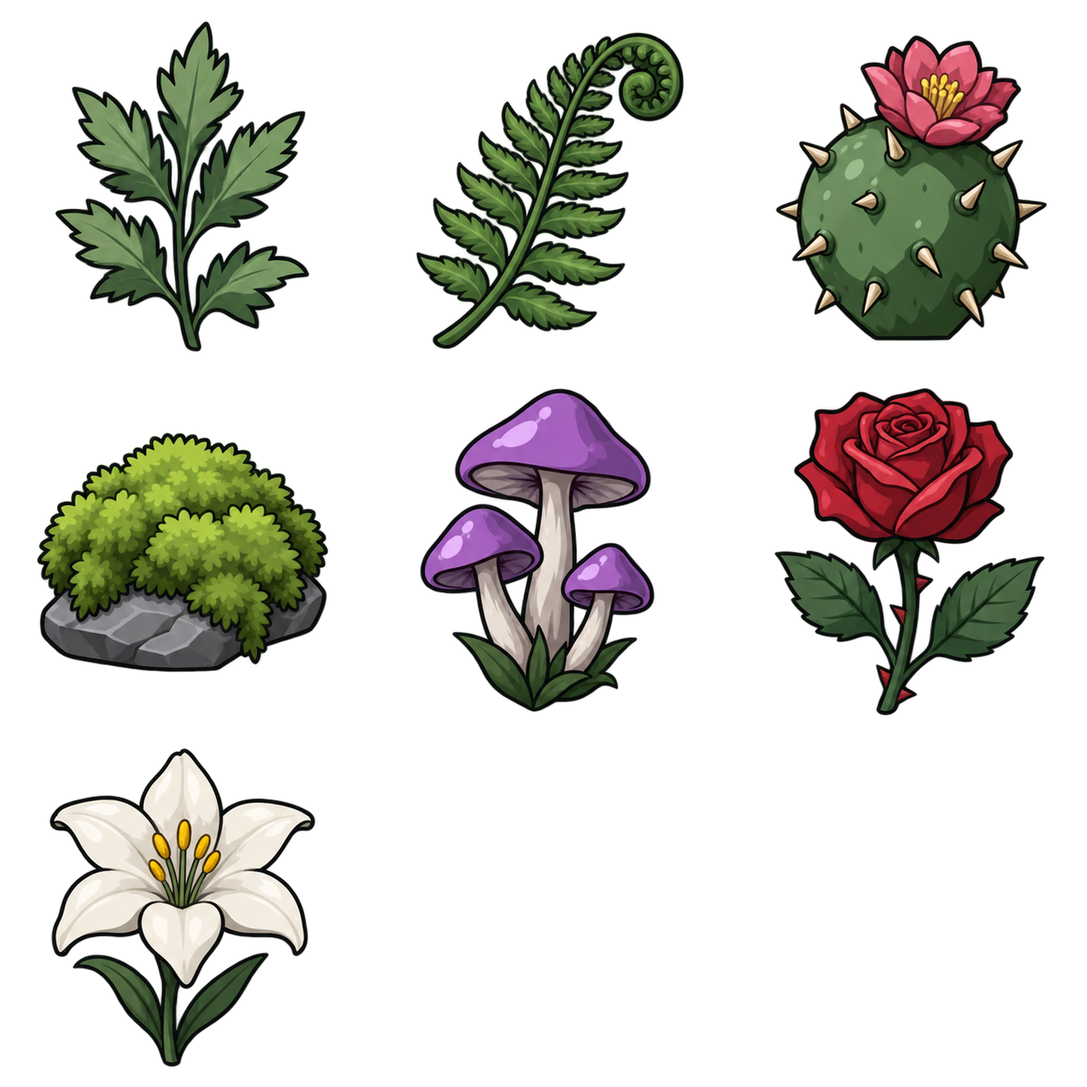
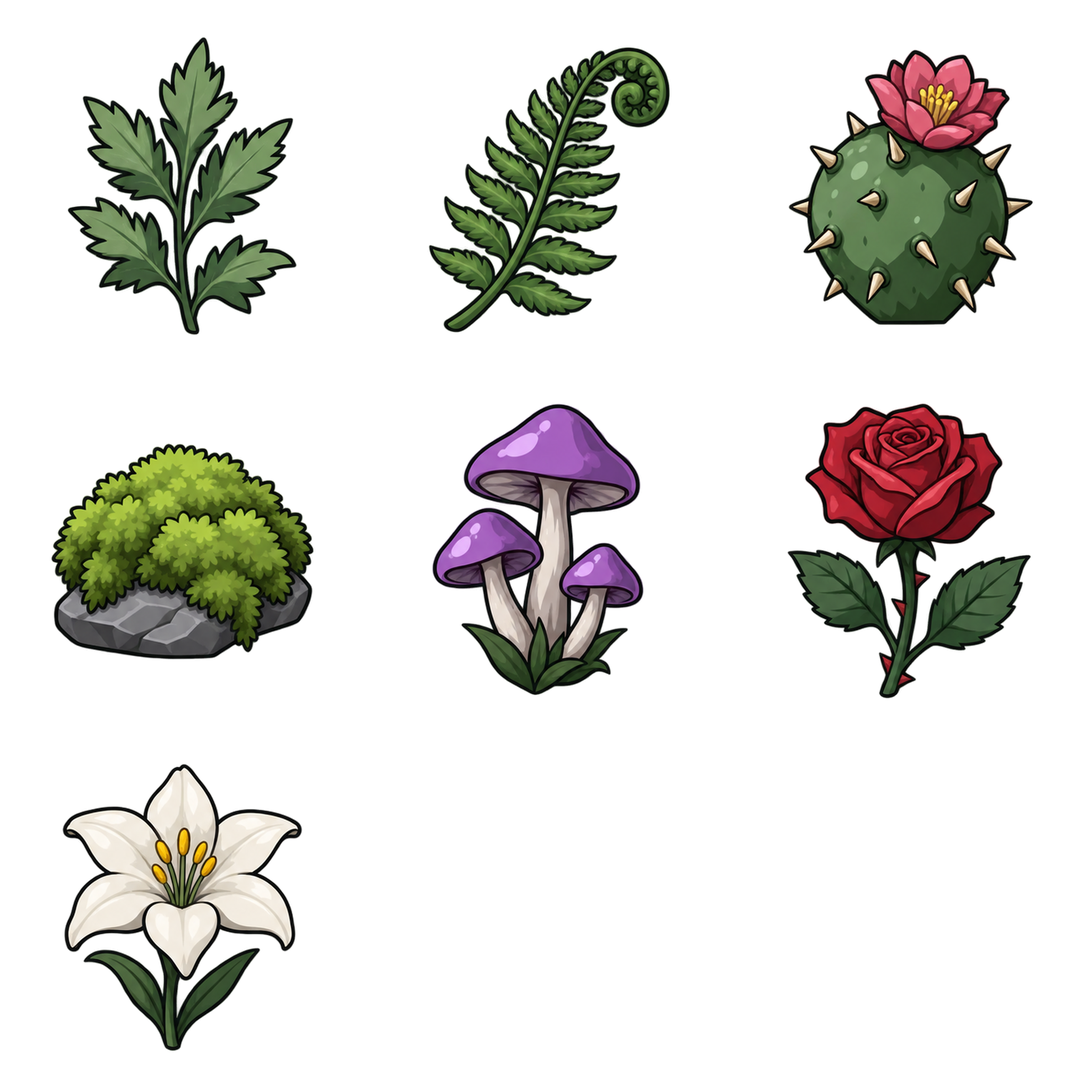
09-27 화면 · 아트 — 세부 옵션 1 줄 재배치 · 전직 판 잠김 베일 · 파티 전술 On/Off · 잠긴 행 자물쇠 · 건설 랭크 칸 세로 채움 · 약초 · 목재 아이콘
- §6 세부 옵션 1 — 피해 감소 한 줄이 고정 / % 를 함께 · 흡혈 · HP 재생을 저항 위로(combat_stat.csv:sheet_order · tip.js)
- §7 스킬 창 전직 판 = 잠김 베일 「전직 필요」
- §15 파티 전술 — 켜짐/꺼짐을 한국어도 On / Off · Off 는 빨강 · 칸 글씨 +1px · 잠긴 행 왼쪽에 자물쇠
- §13-1 건설 랭크 칸이 목록의 남는 세로를 나눠 가진다(ADR-0393)
- 재료 아이콘 — 약초 · 목재 7단계(icons/materials · icons_source · build_icons.py) · output/imagegen 시트 교체

diff --git a/src/ui/style.css b/src/ui/style.css
@@ -2524,7 +2524,7 @@ html, body { height: 100%; overflow: hidden; }
 /* ②-3·4 세부 옵션 1·2 — **목록은 칸 높이를 정하지 않는다** [2026-09-27 사용자 지시 · ADR-0384].
    flex-basis 0 — 목록이 높이 산정에서 빠져 네 칸 높이(= 가방이 남긴 세로)에 맞춰 서고, 넘치면 **칸 안에서 휠로 내린다**.
    ~~flex-basis auto — 가장 긴 칸이 네 칸의 높이를 정한다~~ 는 폐기: 줄이 늘 때마다 가방이 깎였다.
-   두 칸은 **17 · 18 줄 + 묶음 간격**이다 [ADR-0381] (SCREEN_DESIGN §6) */
+   두 칸은 **16 · 18 줄**이다 [ADR-0381 · 간격은 ADR-0389 가 걷음] (SCREEN_DESIGN §6) */
 .cs-scroll { flex: 1 1 0; min-height: 0; overflow-y: auto; padding-right: 4px; }
 /* 캐릭터 탭 세부 옵션만 줄 간격을 좁힌다 [2026-09-22 · ADR-0291] — 본문 줄 높이(1.6)로는 18줄(지금은 세부 옵션 2)이 네 칸 높이를 밀어 올려 가방이 한 줄 넘게 줄었다.
    유닛 툴팁의 같은 줄(`.tip-unit .cs-row`)은 옵션 줄이 값이 있을 때만 서서 그대로 둔다 */
@@ -3371,7 +3371,7 @@ html[lang="en"] .ng-role { line-height: 1.2; }
 .pt-tactics .rs-grid { grid-template-columns: max-content minmax(0, 1.4fr) minmax(0, 1fr) max-content; gap: 8px 16px; }
 .pt-tactics .rs-cell { grid-column: 1 / -1; display: grid; grid-template-columns: subgrid; align-items: center; padding: 11px 12px; }
 .pt-tactics .rs-top { gap: 6px; }
-.pt-tactics .rs-state { margin-left: 0; min-width: 3ch; }   /* 맨 왼쪽 (2026-09-27) — 켜짐 · 꺼짐 글자 폭이 달라도 등급 칩이 같은 자리에 선다 */
+.pt-tactics .rs-state { margin-left: 0; min-width: 3ch; }   /* 맨 왼쪽 (2026-09-27) — On · Off 글자 폭이 달라도 등급 칩이 같은 자리에 선다 */
 .pt-tactics .rs-roll { margin-top: 0; justify-self: end; }
 .pt-tactics .rs-lock { grid-column: 1 / -1; margin-top: 0; }   /* 잠긴 행은 여는 조건 한 줄 — 첫 세로줄부터 선다 (ADR-0261) */
 /* 리롤 줄 — 전체 리롤 버튼 하나 · 진척 줄과 칸 목록 사이 · 잠금 토글이 선 오른쪽 세로줄 위에 맞춘다 (§15 · R28) */
@@ -3384,7 +3384,10 @@ html[lang="en"] .ng-role { line-height: 1.2; }
 .rs-pin.on { color: var(--color-warning); }
 .rs-pin-ico { display: block; }
 .rs-cell.held { box-shadow: inset 3px 0 0 var(--color-warning); }
-.pt-tactics .rs-cond, .pt-tactics .rs-eff, .pt-tactics .rs-lock { font-size: var(--fs-xs); }
+.pt-tactics .rs-cond, .pt-tactics .rs-eff, .pt-tactics .rs-lock { font-size: calc(var(--fs-xs) + 1px); }   /* 한 단 아래 +1px (2026-09-27 사용자 지시) */
+/* 잠긴 행 — 왼쪽에 닫힌 자물쇠(`lockIcon` · 글자색 = 경고색) + 여는 조건 한 줄 */
+.pt-tactics .rs-lock { display: flex; align-items: center; gap: 6px; }
+.pt-tactics .rs-lock .rs-pin-ico { width: 1.1em; height: 1.1em; flex: none; }
 /* 「원정 중」 — 도는 원정의 편성 번호에 붙는다. 영웅 띠의 「원정 중」(`.hs-doing.exp`)과 같은 색 */
 .pt-run { margin-left: 6px; font-size: var(--fs-2xs); color: var(--color-warning); }
 /* 출정 창의 편성 고르개 (SCREEN_DESIGN §4-1 · ADR-0193) — 버튼 세로 · 초상 셋. 초상은 진형 · 적 구성 칸과 같은 한 변이라 적 구성과 마주 선다 */
@@ -3441,6 +3444,7 @@ html[lang="en"] .ng-role { line-height: 1.2; }
 .rs-grade.magic { color: var(--rarity-magic); }
 .rs-grade.rare { color: var(--rarity-rare); }
 .rs-cell.on .rs-state { color: var(--color-success); }
+.rs-cell.off .rs-state { color: var(--color-error); }   /* Off 는 빨강 (2026-09-27 사용자 지시 · §15) */
 
 .rs-cond {
     display: flex; align-items: baseline; justify-content: space-between; gap: 8px;
@@ -3603,7 +3607,7 @@ html[lang="en"] .ng-role { line-height: 1.2; }
 }
 /* 상태는 글자색과 오른쪽 끝 글자가 말한다 — 지음 흰 글씨 + 「✓」(목록의 주황은 조건만 — ADR-0330) · 다음 흰 굵은 글 + 옅은 붉은 바탕 · 그 뒤 · 준비 중 흐림 */
 .cn-rank {
-    flex: none; font-size: var(--fs-xs); min-height: calc(2 * 1.4em + 9px);   /* 글 두 줄(줄 높이 1.4) + 위아래 여백 8 + 아래 선 1 (ADR-0392) */
+    flex: 1 0 auto; font-size: var(--fs-xs); min-height: calc(2 * 1.4em + 9px);   /* 최소 글 두 줄(줄 높이 1.4) + 위아래 여백 8 + 아래 선 1 (ADR-0392) · 목록의 남는 세로는 칸들이 똑같이 나눠 가진다 (ADR-0393) */
     display: grid; grid-template-columns: max-content minmax(0, 1fr) auto; align-items: center;
     column-gap: 14px; padding: 4px 8px; line-height: 1.4;
     border-bottom: 1px solid var(--border-dark);

diff --git a/src/ui/app.js b/src/ui/app.js
@@ -3314,7 +3314,8 @@ function masteryCell(node, owner = {}) {
 function masteryBox({ tag, title, sub, nodes, onLearn, onUnlearn, locked, extraSlot = false, preview = false, sin = null, cls = null }) {
     const owner = { sin, cls };
     const color = masteryAccent(owner);
-    const box = el('div', `sk-box${locked ? ' locked' : ''}${color ? ' mastery-colored' : ''}`);
+    // `locked` — true = 흐린 판(도감의 미기획 판) · 문자열 = 격자 위 잠김 베일 + 그 한 줄(스킬 창의 전직 판)
+    const box = el('div', `sk-box${locked === true ? ' locked' : ''}${color ? ' mastery-colored' : ''}`);
     if (color) box.style.setProperty('--mastery-color', color);
     const { tiers, nodes: perTier } = M.MASTERY_GRID;
     const rows = [];
@@ -3334,6 +3335,8 @@ function masteryBox({ tag, title, sub, nodes, onLearn, onUnlearn, locked, extraS
             ${sub ? `<span class="muted sk-sub">${sub}</span>` : ''}
         </div>
         <div class="sk-grid">${rows.join('')}</div>`;
+    // 잠긴 판은 격자 위에 잠김 베일 (§7 · §13-1) — 한 줄은 부르는 쪽이 준다(전직 판 = 「전직 필요」)
+    if (typeof locked === 'string') { const g = box.querySelector('.sk-grid'); g.classList.add('lock-host'); g.appendChild(lockVeilText(locked)); }
     const nodeById = new Map(nodes.map(n => [n.id, n]));
     box.querySelectorAll('.sk-cell[data-node]').forEach(c =>
         bindTipNode(c, () => {
@@ -3429,7 +3432,7 @@ function skillTreeBody() {
     // 전직 층은 구현이 없다 — **같은 프레임의 빈 판**으로 자리만 남긴다. 생김새가 갈리면 같은 층으로 안 읽힌다
     wrap.appendChild(masteryBox({
         title: t('sk.advTree'),
-        nodes: [], locked: true,
+        nodes: [], locked: t('sk.advNeed'),
     }));
     return wrap;
 }
@@ -3461,7 +3464,7 @@ function tacticCell(slot, onLock) {
     const c = el('div', `rs-cell${slot.open ? (slot.active ? ' on' : ' off') + (slot.locked ? ' held' : '') : ' locked'}`);
     // 칸 번호는 안 적는다 [2026-09-21 사용자 지시 · ADR-0261] — 세로 목록에서는 행의 순서가 번호다. 잠긴 행은 **지을 지휘 천막 랭크** 한 줄뿐 (R137)
     if (!slot.open) {
-        c.innerHTML = `<div class="rs-lock">${needText('tactic_slots', slot.no)}</div>`;
+        c.innerHTML = `<div class="rs-lock">${lockIcon(true)}<span>${needText('tactic_slots', slot.no)}</span></div>`;
         return c;
     }
     const o = slot.option;
@@ -3703,8 +3706,10 @@ const resName = id => ({ gold: t('res.gold'), dust: t('res.dust'), stigma: t('re
 const needArgs = (target, n) => { const w = SYS.game.needOf(target, n); return w && { b: L(w.name), n: w.rank }; };
 /** 잠긴 자리의 한 줄 — 「선술집 2랭크 필요」 · 표에 없는 대상은 「준비 중」 */
 const needText = (target, n) => { const a = needArgs(target, n); return a ? t('cn.need', a) : t('cn.pending'); };
-/** 통째로 잠긴 칸의 베일 — 내용물 위에 검은 반투명 막 + 자물쇠(`lockIcon` 닫힘) + 같은 한 줄. 부모가 `.lock-host`(기준 상자)여야 한다 (§13-1) */
-const lockVeil = (target, n) => el('div', 'lock-veil', `<span class="lock-ico">${lockIcon(true)}</span><span>${needText(target, n)}</span>`);
+/** 통째로 잠긴 칸의 베일 — 내용물 위에 검은 반투명 막 + 자물쇠(`lockIcon` 닫힘) + 한 줄. 부모가 `.lock-host`(기준 상자)여야 한다 (§13-1) */
+const lockVeilText = text => el('div', 'lock-veil', `<span class="lock-ico">${lockIcon(true)}</span><span>${text}</span>`);
+/** 건물 랭크가 여는 자리 — 한 줄은 「선술집 n랭크 필요」 */
+const lockVeil = (target, n) => lockVeilText(needText(target, n));
 /** 잠긴 버튼을 누르면 — 같은 문장을 플래시로 */
 const flashNeed = (target, n) => { const a = needArgs(target, n); flash(a ? 'cn.need' : 'cn.pending', a ?? {}); };
 /** 흐린 탭을 누르면 — 그 탭에 붙은 건물 중 표 순서가 앞인 것을 말한다. 첫 랭크가 전부 준비 중이면 지을 수 없으니 「준비 중」 (§1 · ADR-0311) */

diff --git a/src/ui/tip.js b/src/ui/tip.js
@@ -353,7 +353,6 @@ const FX_ROWS = [
         parts: x => [[t('kind.elite'), x?.vsElite ?? 0], [t('exp.form.front'), x?.vsFront ?? 0], [t('exp.form.back'), x?.vsBack ?? 0]] },
     { id: 'fx_crush', fmt: 'pct', name: () => L(M.AFFIX_LABELS.crushing_blow_pct), parts: x => one(x?.crush) },
     { id: 'fx_hit', fmt: 'pct', name: () => L(M.AFFIX_LABELS.hit_bonus), parts: x => one(x?.hitBonus) },   // 궁수 T1-3 (2026-09-22 R138)
-    { id: 'fx_dr_flat', fmt: 'n', name: () => L(M.AFFIX_LABELS.dr_flat), parts: x => one(x?.drFlat) },
     { id: 'fx_dr_type', fmt: 'pct', name: () => t('st.fx.drType'), parts: x => typeParts(x?.vsDr) },
     { id: 'fx_dr_target', fmt: 'pct', name: () => t('st.fx.drTarget'),
         parts: x => [[t('kind.elite'), x?.vsEliteDr ?? 0], [t('exp.form.front'), x?.vsFrontDr ?? 0], [t('exp.form.back'), x?.vsBackDr ?? 0]] },
@@ -367,7 +366,7 @@ const fxParts = (s, c) => s.parts(c?.option_fx ?? null, c);
 
 /**
  * 세부 옵션의 자리 — `[세부 옵션 1, 세부 옵션 2]` · 칸마다 **묶음**의 배열 · 묶음마다 줄 id [2026-09-27 사용자 지시 · SCREEN_DESIGN §6 · ADR-0381].
- * 1 = **늘 먹는 것**(모든 타격 · 모든 피격) — 대표 · 공격 · 방어 · 저항 · 회복 / 2 = **조건부**(대상 · 상황 · 발동이 붙는 것) — 원소 · 대상 · 확률 · 맞을 때 · 효과 증폭 · 파밍.
+ * 1 = **늘 먹는 것**(모든 타격 · 모든 피격) — 대표 · 공격 · 방어 · 회복 · 저항 / 2 = **조건부**(대상 · 상황 · 발동이 붙는 것) — 원소 · 대상 · 확률 · 맞을 때 · 효과 증폭 · 파밍.
  * 묶음은 **순서로만** 모은다 — 제목도 간격도 없다(간격은 2026-09-27 사용자 지시로 걷었다 · ADR-0389). 2 의 「대상」 묶음은 주는 것 ↔ 막는 것을 한 쌍씩 붙인다.
  * combat_stat 행끼리의 순서는 `sheet_order` 와 같아야 한다(dev/test.js 가 대조한다) · `fx_` 는 `FX_ROWS`.
  * 캐릭터 탭의 두 패널과 유닛 툴팁의 두 열이 **같은 자리에서** 끊는다 (ADR-0115)
@@ -376,9 +375,9 @@ const DETAIL_LAYOUT = [
     [
         ['atk_physical', 'atk_magic', 'action_period', 'hp_max'],
         ['crit_rate', 'crit_damage', 'def_ignore', 'cooldown_reduction'],
-        ['defense', 'damage_reduction', 'fx_dr_flat'],
-        ['res_fire', 'res_cold', 'res_lightning', 'res_poison'],
+        ['defense', 'damage_reduction'],   // 피해 감소 줄이 고정 피해 감소를 함께 든다 — `고정 / %` (2026-09-27 사용자 지시)
         ['life_steal', 'hp_regen'],
+        ['res_fire', 'res_cold', 'res_lightning', 'res_poison'],   // 저항 넷이 맨 아래 [2026-09-27 사용자 지시]
     ],
     [
         ['fx_ele', 'fx_res_red'],
@@ -420,9 +419,11 @@ export function sheetRowsHtml(rows, c) {
         // 물리 방어는 정수로 반올림해 찍는다 (2026-09-15 사용자 지시 · SCREEN_DESIGN §6) — 감쇠율은 위에서 반올림 전 값으로 냈다.
         //   fmt 로 가르지 않는다: 같은 `n` 인 HP 재생(0.05)까지 0 이 된다
         const shown = s.id === 'defense' && has ? Math.round(v) : v;
+        // 피해 감소 = **고정 / %** 한 줄 [2026-09-27 사용자 지시 · SCREEN_DESIGN §6] — 고정 피해 감소(`option_fx.drFlat` · 모든 감소 뒤에 뺀다)는 제 줄을 잃었다
+        const text = s.id === 'damage_reduction' && has ? `${c.option_fx?.drFlat ?? 0} / ${fmtCombat(s, v)}` : fmtCombat(s, shown);
         return `<div class="cs-row${has ? '' : ' off'}${s.lead ? ' lead' : ''}">
             <span class="cs-n">${L(s)}</span>
-            <span class="cs-v">${fmtCombat(s, shown)}${extra}</span></div>`;
+            <span class="cs-v">${text}${extra}</span></div>`;
     }).join('');
 }
 

diff --git a/src/dev/test.js b/src/dev/test.js
@@ -646,7 +646,7 @@ check('combat_stat.csv: 24행 · 폐지 축 없음 · 저항은 pct · 유틸은
     if (ids.length !== 24) fail(`${ids.length}`);
     return true;
 });
-check('combat_stat.csv: sheet_order 1~24 유일 · 세부 옵션 자리(tip.js:DETAIL_LAYOUT)와 같은 순서 · 1 = 늘 먹는 것 17 / 2 = 조건부 18 (SCREEN_DESIGN §6 · ADR-0381)', () => {
+check('combat_stat.csv: sheet_order 1~24 유일 · 세부 옵션 자리(tip.js:DETAIL_LAYOUT)와 같은 순서 · 1 = 늘 먹는 것 16 / 2 = 조건부 18 (SCREEN_DESIGN §6 · ADR-0381)', () => {
     const orders = D.combatStats.map(s => s.sheetOrder);
     if (orders.some(v => typeof v !== 'number')) fail('sheet_order 가 비어 있는 행이 있다');
     if (new Set(orders).size !== 24) fail(`중복 ${orders.length - new Set(orders).size}개`);
@@ -664,7 +664,8 @@ check('combat_stat.csv: sheet_order 1~24 유일 · 세부 옵션 자리(tip.js:D
     if (missing.join() !== 'res_reduction' || !flat.includes('fx_res_red')) fail(`줄로 안 서는 impl=1: ${missing.join()}`);
     if (pages[0].slice(0, 4).join() !== 'atk_physical,atk_magic,action_period,hp_max') fail(`머리 4: ${pages[0].slice(0, 4).join()}`);
     const n = pages.map(p => p.length).join(' / ');
-    if (n !== '17 / 18') fail(`세부 옵션 ${n}`);
+    // 16 — 고정 피해 감소가 피해 감소 줄(`고정 / %`)로 들어갔다 (2026-09-27 사용자 지시)
+    if (n !== '16 / 18') fail(`세부 옵션 ${n}`);
     return `세부 옵션 ${n} (전투 능력치 ${statIds.length} + 옵션 줄 ${flat.length - statIds.length})`;
 });
 check('hero_attribute.csv: 감각 → 운 (2026-08-26 재정의) · 자리 유지 · 직업 메인 스탯(class.csv:key_attr · 2026-09-18 · 사제 매력 2026-09-27)', () => {
@@ -5616,7 +5617,7 @@ check('tip: 영웅 첫 장은 착용 장비 · Alt 는 장비를 둔 채 세부 
     for (const s of s2) if (!(s.fx ? true : combat[s.id])) fail(`Alt 세부 옵션 2 에 값이 0 인 ${s.id} 가 섰다`);
     if (held.querySelector('.tip-unit-col .cs-row.gap')) fail('세부 옵션에 묶음 간격이 남았다 (ADR-0389)');
     const full = `${p1.length} / ${p2.length}`;
-    if (full !== '17 / 18') fail(`캐릭터 탭 세부 옵션 ${full} — 17 / 18 이어야 한다 (ADR-0381)`);
+    if (full !== '16 / 18') fail(`캐릭터 탭 세부 옵션 ${full} — 16 / 18 이어야 한다 (ADR-0381 · 고정 피해 감소는 피해 감소 줄)`);
     return `장비 8칸(착용 ${worn}) · Alt 세부 ${detailRows}행 · 캐릭터 탭 ${full}`;
 });
 check('tip: Alt 영웅 툴팁은 카드 밖에서도 남고 · 찬 장비 hover는 옵션 카드를 열고 · 키를 떼면 모두 닫힌다 (ADR-0182)', () => {

diff --git a/src/ui/i18n.js b/src/ui/i18n.js
@@ -995,8 +995,9 @@ const STRINGS = {
     'rs.total': { ko: '합산 레벨', en: 'Total Level' },
     'rs.open': { ko: '열린 칸', en: 'Slots Open' },
     'rs.allOpen': { ko: '전부 열렸다', en: 'All slots open' },
-    'rs.on': { ko: '켜짐', en: 'On' },
-    'rs.off': { ko: '꺼짐', en: 'Off' },
+    // 한국어도 On / Off 그대로 [2026-09-27 사용자 지시 「한글이어도 무조건 On Off」 · SCREEN_DESIGN §15]
+    'rs.on': { ko: 'On', en: 'On' },
+    'rs.off': { ko: 'Off', en: 'Off' },
     // 전체 리롤 + 잠금 [2026-09-22 · R28 · tactic_card_design §5-6] — 버튼 하나가 안 잠근 칸을 전부 굴리고, 비용은 잠근 칸 수가 정한다
     'rs.reroll': { ko: '전체 리롤 {g}G', en: 'Reroll All {g}G' },
     'rs.reroll.done': { ko: '{n}칸을 다시 굴렸다', en: 'Rerolled {n} slot(s)' },
@@ -1268,6 +1269,7 @@ const STRINGS = {
             + 'The reactive bottom row is still being designed.',
     },
     'sk.advTree': { ko: '전직 트리', en: 'Advancement Tree' },
+    'sk.advNeed': { ko: '전직 필요', en: 'Advancement required' },   // 전직 판의 잠김 베일 (§7 · §13-1)
     'sk.advTree.missing': {
         ko: '<b>액티브를 주는 층은 전직 하나</b>다 — 두 마스터리는 전부 패시브다. 전직 3갈래 중 하나를 고르면 그 전직이 액티브 3을 주고, <b>그중 1개를 찍은 것만</b> 칸에 올라 트리의 뿌리가 된다.<br>'
             + '⚠ 미구현 — 뿌리 45개가 필요해졌고 <b>트리 형태(깊은 트리 vs 얕은 티어)</b>가 미정이라 총량을 못 정한다. 본 프로젝트 최대의 콘텐츠 부채다.',

diff --git a/src/ui/mock.js b/src/ui/mock.js
@@ -759,10 +759,12 @@ export const buildingImg = id => (BUILDING_IMAGES.includes(id) ? `${BUILDING_IMG
 
 /**
  * 재료 아이콘 — 자원 단계 상자의 산출물 그림 (SCREEN_DESIGN §8 · ADR-0377) · 파일명 = 재료 id (`mine_node.csv:ore_id` …).
- * **목록에 있는 재료만 그림을 읽는다** — 없는 재료는 칸째 빠진다. 약초 · 목재 그림이 오면 폴더와 줄을 더한다
+ * **목록에 있는 재료만 그림을 읽는다** — 없는 재료는 칸째 빠진다.
  */
 export const MATERIAL_ICONS = {
     ore: { dir: './assets/art/icons/materials/ores/', ids: ['ore_t1', 'ore_t2', 'ore_t3', 'ore_t4', 'ore_t5', 'ore_t6', 'ore_t7'] },
+    timber: { dir: './assets/art/icons/materials/timbers/', ids: ['timber_t1', 'timber_t2', 'timber_t3', 'timber_t4', 'timber_t5', 'timber_t6', 'timber_t7'] },
+    herb: { dir: './assets/art/icons/materials/herbs/', ids: ['herb_t1', 'herb_t2', 'herb_t3', 'herb_t4', 'herb_t5', 'herb_t6', 'herb_t7'] },
 };
 export const materialIcon = id => {
     const g = Object.values(MATERIAL_ICONS).find(x => x.ids.includes(id));

diff --git a/scripts/build_icons.py b/scripts/build_icons.py
@@ -37,6 +37,8 @@ GAME_DIRS = [
     "mastery/sin",
     "mastery/class",
     "materials/ores",
+    "materials/timbers",
+    "materials/herbs",
 ]
 
 

diff --git a/docs/client/SCREEN_DESIGN.md b/docs/client/SCREEN_DESIGN.md
@@ -618,7 +618,7 @@
 | 장비 | **페이퍼돌** — 신체 위치대로 착용 위치 8 (부위 7, 반지 ×2). 3열 × 3행: 투구·목걸이 / 무기·갑옷·장갑 / 반지·신발·반지 (2026-09-01 재배치 — 보조 슬롯 폐지로 4행 → 3행). 희귀도 색 테두리 · **잠기는 칸은 없다**(전 무기가 양손이라 배타가 사라졌다) · **제목 옆 집계는 없다** ([ADR-0041](adr/0041-집계-줄-폐기-네-칸의-제목은-이름뿐이다.md)) · **빈 칸은 부위 실루엣**을 깔고 이모지를 안 깐다 ([ADR-0025](adr/0025-미장착-칸-는-부위-실루엣.md)) · **찬 칸의 글자는 모서리 배지 둘** — 가방 칸과 같다: 오른쪽 위 강화 `+n`(강화했을 때만 · [ADR-0169](adr/0169-페이퍼돌-착용-칸도-강화-단계를-든다.md)) · 오른쪽 아래 `Lv.n`([ADR-0168](adr/0168-아이템-칸-오른쪽-아래에-아이템-레벨이-선다.md)) · 부위 이름은 빈 칸의 `title` 이 든다 ([ADR-0122](adr/0122-페이퍼돌-칸에는-글자가-없다.md)) · **착용 칸은 아이템 그림**(§2 · 방어구 · 장신구는 개체 `baseId` 의 그림 — 부위 일곱이 다 찼다) | 착용 칸 클릭 = **해제** |
 | | 접사 죄종 **태그** 집계 — 세트포인트 아님(폐기). 전술카드 조건이 이 숫자를 읽으므로 **카운터는 필수**다 (tactic_card_design.md §2-1) · 소제목 「접사 죄종」은 옆 칸 소제목 「액티브 스킬」과 **같은 높이**에 선다 | |
 | 기본 옵션 | **제목 줄 오른쪽 끝에 죄종 칩** — 글자 · 테두리가 **그 죄종 색**(후보 카드 칩과 같은 문법) · **맨 위에 레벨 · 경험치** — 한 줄(왼쪽 `Lv.n` · 오른쪽 `경험치 현재 / 필요`) + 그 아래 **칸 폭 전부를 쓰는 얇은 막대**(약어 배지 없음 · 능력치 막대보다 얇다 — 시작 x 와 두께가 달라 여덟째 능력치로 안 읽힌다) · 능력치 막대와는 **선 없이 간격**으로만 가른다 · **만렙(`[balance.csv:hero_level_cap]`)이면 숫자 대신 `MAX` · 막대는 가득** — 줄이 안 사라져 영웅을 바꿔도 아래가 안 흔들린다 ([ADR-0129](adr/0129-레벨-경험치는-기본-옵션-칸-맨-위-능력치-막대-위에-선다.md)) · 그 아래 기본 능력치 7 막대 — **일곱 줄의 막대가 같은 x 에서 시작한다** · 막대 폭이 범위(`[balance.csv:hero_attr_min]` ~ `[balance.csv:hero_attr_max]`) 안의 자리를 든다 — **범위 숫자 줄은 없다** · 그 아래 **액티브 스킬** — 막대와의 사이 선은 **하나**(소제목 밑줄) — 액티브 3 을 **정사각 카드**로. **찬 칸은 그림 하나뿐**이다 ([ADR-0040](adr/0040-스킬-칸-는-그림-하나.md)) (이름 · 초 · 효과 문장은 **툴팁이 든다**) · **칸 아래에 출처 글자** `영웅` · `무기` · `전직` — 빈 칸 아래에도 찍고, 이 칸의 툴팁은 출처 칩을 안 단다 ([ADR-0121](adr/0121-스킬-출처는-글자로-한-번만-선다-액티브-칸-아래에-적고-툴팁-칩은-관전만-단다.md)) · **빈 칸은 파선 네모 하나**(사유는 `title` 이 든다 — 칸이 아이콘 크기라 글자가 안 들어간다). 공격 속도(초)는 **세부 옵션 1** 머리의 `action_period` 행이 든다 | **[마스터리 열기]** → 창이 뜬다 (§7) · **[해고]** → 창이 뜬다 (아래) |
-| 세부 옵션 1 · 2 | **1 = 늘 먹는 것 17줄 · 2 = 조건부 18줄 · 넘치면 칸 안에서 휠**([ADR-0384](adr/0384-캐릭터-탭-가방-높이는-원정-화면과-같고-줄지-않는다-넘치는-세부-옵션은-칸-안에서-휠로-내린다.md) — 칸 높이를 정하지 않는다) [[ADR-0381](adr/0381-세부-옵션-1-은-늘-먹는-것-2-는-조건부이고-묶음-사이는-간격으로-가른다.md)] — 기준 한 줄: **모든 타격 · 모든 피격에 늘 먹으면 1, 대상 · 상황 · 발동이 붙으면 2**. 자리(칸 → 묶음 → 줄)는 `tip.js:DETAIL_LAYOUT` 이 정한다 — 줄은 전투 능력치 `impl=1` 행(`game.heroCombat` · 행끼리의 순서 = `[combat_stat.csv:sheet_order]`)과 **옵션이 여는 줄**(`option_fx` 등 — combat_stat 행이 아니다 · 정의는 `tip.js:FX_ROWS` · [ADR-0291](adr/0291-세부-옵션은-옵션이-여는-축까지-36줄이다-18-18-로-물리-방어-앞에서-끊는다.md)). **묶음은 순서로만 모은다 — 제목도 간격도 없이 줄을 잇는다** [[ADR-0389](adr/0389-세부-옵션-줄은-간격-없이-잇는다-묶음은-순서로만-모은다.md)]. 1 = **대표**(물리 데미지 · 마법 데미지 · 공격 속도 · 최대 HP — 값을 굵게 · 아래 간격 없음 · 공격 속도는 **초 / 1회** · [ADR-0358](adr/0358-인게임의-속도-이름은-공격-속도-하나다-행동-주기를-화면에서-걷는다.md)) / **공격**(치명타 확률 · 치명타 피해 · 방어 무시 · 쿨타임 감소) / **방어**(물리 방어 · 피해 감소 · 고정 피해 감소) / **저항**(불 · 냉기 · 전기 · 독) / **회복**(흡혈 · HP 재생) · 2 = **원소**(원소 피해 · 저항 감소) / **대상**(타입 추가 데미지 · 타입별 받는 피해 감소 · 정예 · 열 추가 데미지 · 정예 · 열별 받는 피해 감소 — 주는 것 ↔ 막는 것을 한 쌍씩) / **확률 · 특수**(강타 · 명중률 · 최대 저항 증가) / **맞을 때**(타격 회복 · 반격 확률 · 반사 피해) / **효과 증폭**(체력 회복 · 버프 지속시간) / **파밍**(드랍률 · 매직아이템 획득 · 골드 획득 · 경험치 획득). **데미지 두 줄은 범위 `최소~최대`** 로 찍는다(양끝이 같으면 한 수 · [ADR-0108](adr/0108-무기-피해와-스킬-피해-회복량은-최소-최대-범위로-찍는다.md)). **묶은 줄은 값이 있는 것만 이름을 붙여** 찍고(`일반 10% · 데몬 5%`) 전부 0이면 `—` 다 — 원소 피해 = 불 · 냉기 · 전기 · 독 · 저항 감소 = 전체(`res_reduction`) + 원소별(`res_reduction_el`). **타입 추가 데미지 줄은 `vs_type_damage`(`impl=0`)의 이름을 쓰고** 값은 `option_fx` 가 든다. **세우지 않는 축** — 타격 시 방어 · 저항 약화 · 타격 시 대상 데미지 감소(전투는 읽는다 — 아이템 툴팁의 옵션 줄로만 보인다) · 상태이상 시간 감소 넷(전투가 안 읽는다 — 아이템 툴팁이 「(미적용)」으로 든다 · [ADR-0213](adr/0213-목걸이-발동-스킬은-고정-줄로-서고-전투에-안-걸리는-줄은-미적용을-단다.md)) · 상태이상 대상 피해(`impl=0` · 출처 없음) · 도감 피해량(전 영웅 공통 — 도감의 값). **칸마다의 집계도 약어도 안 붙인다** ([ADR-0041](adr/0041-집계-줄-폐기-네-칸의-제목은-이름뿐이다.md)) — 약어 배지는 **기본 옵션의 막대 줄에만** 선다. 저항 4행은 **값 + 그 원소의 현재 상한**(기본 상한 + 최대 저항 증가 + **그 원소의 최대 저항 증가**(투구 시기 칸 — 시트 행이 아니라 상한에만 먹는다 · 2026-09-18) — `formula.resCap`) · 물리 방어 행은 **값(정수로 반올림) + 감쇠율 %**(감쇠율은 반올림 전 값으로 낸다) | |
+| 세부 옵션 1 · 2 | **1 = 늘 먹는 것 16줄 · 2 = 조건부 18줄 · 넘치면 칸 안에서 휠**([ADR-0384](adr/0384-캐릭터-탭-가방-높이는-원정-화면과-같고-줄지-않는다-넘치는-세부-옵션은-칸-안에서-휠로-내린다.md) — 칸 높이를 정하지 않는다) [[ADR-0381](adr/0381-세부-옵션-1-은-늘-먹는-것-2-는-조건부이고-묶음-사이는-간격으로-가른다.md)] — 기준 한 줄: **모든 타격 · 모든 피격에 늘 먹으면 1, 대상 · 상황 · 발동이 붙으면 2**. 자리(칸 → 묶음 → 줄)는 `tip.js:DETAIL_LAYOUT` 이 정한다 — 줄은 전투 능력치 `impl=1` 행(`game.heroCombat` · 행끼리의 순서 = `[combat_stat.csv:sheet_order]`)과 **옵션이 여는 줄**(`option_fx` 등 — combat_stat 행이 아니다 · 정의는 `tip.js:FX_ROWS` · [ADR-0291](adr/0291-세부-옵션은-옵션이-여는-축까지-36줄이다-18-18-로-물리-방어-앞에서-끊는다.md)). **묶음은 순서로만 모은다 — 제목도 간격도 없이 줄을 잇는다** [[ADR-0389](adr/0389-세부-옵션-줄은-간격-없이-잇는다-묶음은-순서로만-모은다.md)]. 1 = **대표**(물리 데미지 · 마법 데미지 · 공격 속도 · 최대 HP — 값을 굵게 · 아래 간격 없음 · 공격 속도는 **초 / 1회** · [ADR-0358](adr/0358-인게임의-속도-이름은-공격-속도-하나다-행동-주기를-화면에서-걷는다.md)) / **공격**(치명타 확률 · 치명타 피해 · 방어 무시 · 쿨타임 감소) / **방어**(물리 방어 · 피해 감소 — **`고정 / %` 한 줄**: 고정 피해 감소가 제 줄 없이 여기 앞에 선다 · 2026-09-27 사용자 지시) / **회복**(흡혈 · HP 재생) / **저항**(불 · 냉기 · 전기 · 독 — 칸 맨 아래 · 2026-09-27 사용자 지시) · 2 = **원소**(원소 피해 · 저항 감소) / **대상**(타입 추가 데미지 · 타입별 받는 피해 감소 · 정예 · 열 추가 데미지 · 정예 · 열별 받는 피해 감소 — 주는 것 ↔ 막는 것을 한 쌍씩) / **확률 · 특수**(강타 · 명중률 · 최대 저항 증가) / **맞을 때**(타격 회복 · 반격 확률 · 반사 피해) / **효과 증폭**(체력 회복 · 버프 지속시간) / **파밍**(드랍률 · 매직아이템 획득 · 골드 획득 · 경험치 획득). **데미지 두 줄은 범위 `최소~최대`** 로 찍는다(양끝이 같으면 한 수 · [ADR-0108](adr/0108-무기-피해와-스킬-피해-회복량은-최소-최대-범위로-찍는다.md)). **묶은 줄은 값이 있는 것만 이름을 붙여** 찍고(`일반 10% · 데몬 5%`) 전부 0이면 `—` 다 — 원소 피해 = 불 · 냉기 · 전기 · 독 · 저항 감소 = 전체(`res_reduction`) + 원소별(`res_reduction_el`). **타입 추가 데미지 줄은 `vs_type_damage`(`impl=0`)의 이름을 쓰고** 값은 `option_fx` 가 든다. **세우지 않는 축** — 타격 시 방어 · 저항 약화 · 타격 시 대상 데미지 감소(전투는 읽는다 — 아이템 툴팁의 옵션 줄로만 보인다) · 상태이상 시간 감소 넷(전투가 안 읽는다 — 아이템 툴팁이 「(미적용)」으로 든다 · [ADR-0213](adr/0213-목걸이-발동-스킬은-고정-줄로-서고-전투에-안-걸리는-줄은-미적용을-단다.md)) · 상태이상 대상 피해(`impl=0` · 출처 없음) · 도감 피해량(전 영웅 공통 — 도감의 값). **칸마다의 집계도 약어도 안 붙인다** ([ADR-0041](adr/0041-집계-줄-폐기-네-칸의-제목은-이름뿐이다.md)) — 약어 배지는 **기본 옵션의 막대 줄에만** 선다. 저항 4행은 **값 + 그 원소의 현재 상한**(기본 상한 + 최대 저항 증가 + **그 원소의 최대 저항 증가**(투구 시기 칸 — 시트 행이 아니라 상한에만 먹는다 · 2026-09-18) — `formula.resCap`) · 물리 방어 행은 **값(정수로 반올림) + 감쇠율 %**(감쇠율은 반올림 전 값으로 낸다) | |
 | 보관 — **두 칸** | **왼쪽 창고 / 오른쪽 인벤토리**(2026-09-11 사용자 확정 · item_design §1) — 각 칸이 **제 이름과 제 칸 수**를 든다(`game.limitsOf` — 기본값 `[balance.csv:stash_cap]` · `[balance.csv:inventory_cap]` + 창고 랭크 · R137). **상한보다 많이 들고 있으면**(상한이 줄어든 옛 세이브) 넘친 것도 칸으로 그린다 — 아무것도 안 지운다(새 드롭 · 옮기기만 막힌다). **이름 글씨는 패널 제목(「장비」)과 같다** — 크기 · 굵기 · 색. 밑줄은 없다(이름이 도구 줄 안 버튼 옆에 선다) [2026-09-21 사용자 지시]. **창고는 장비만 든다 · 인벤토리 칸에만 `장비` · `재료` 탭이 선다**(아래 「인벤토리 — 재료 탭」 · [ADR-0379](adr/0379-인벤토리-칸에-재료-탭이-선다-채광-채집-벌목이-한-줄씩-보유-수량을-든다.md) · **부위 필터는 없다**). **도구 줄의 [잠금] · [분해] · [자동 분해] 버튼**(이 순서)은 **인벤토리 쪽에 한 벌만** 서고 두 칸에 같이 걸린다(**셋 다 처음부터 열려 있다** — 건물이 막지 않는다 · R140)([자동 분해]는 선이 하나라도 서 있으면 켜진 모양 · 아래 「자동 분해 창」) — [잠금]은 **잠그는 중**, [분해]는 **고르는 중**으로 바꾼다(아래 두 표 · [ADR-0184](adr/0184-분해는-골라서-버튼으로-한다-분해-모드-토글을-버린다.md) · [ADR-0207](adr/0207-잠금은-분해-왼쪽의-제-버튼이다-누르는-칸이-바로-잠긴다.md)). **[정렬]은 칸마다 제 것**이다 — 창고 도구 줄에 하나, 인벤토리 도구 줄 맨 오른쪽([자동 분해] 뒤)에 하나 · 누른 칸만 줄 세운다(아래 「정렬」 · [ADR-0242](adr/0242-정렬은-누를-때-한-번-줄-세운다-기준은-정렬이-도구-줄에-펼친다.md)). 도구 줄 오른쪽 끝에 (관전에서는) 장착 대상 · **칸 · 그림 크기는 관전(§4-2)과 같다** · **두 칸은 윗변 · 칸 줄 · 아랫변이 맞는다** — 버튼이 서는 도구 줄은 인벤토리 쪽뿐이라 창고 쪽 도구 줄이 모자란 높이를 받는다 | **`Ctrl` + 칸 클릭 = 반대편으로 보낸다**(창고 ↔ 인벤토리) · **칸을 끌어 반대편 격자에 놓아도 같다** — 두 길이 같은 일을 한다 ([ADR-0187](adr/0187-창고와-인벤토리는-드래그로도-오간다.md)) |
 | 보관 — **어느 칸이든 같다** | **창고에서도 바로 장착 · 분해**된다 — 꺼내는 단계가 없다(item_design §1). 제련소(§8-2)의 강화 대상에도 **양쪽이 다 든다** | 칸 클릭 = **장착** · **고르는 중이면 체크 토글**(아무것도 안 사라진다) · **잠그는 중이면 자물쇠 토글** — 어느 칸이든 같다 |
 | 보관 — **드롭이 들어오는 곳** | 원정 드롭은 **인벤토리에만** 쌓인다. 인벤토리가 차면 그 드롭은 버려진다(리포트가 버린 개수를 든다 §4-3) — **창고로는 안 흘린다** | 없음 — 자동이다 |
@@ -767,7 +767,7 @@
 - **낀 장비가 켜는 칸**(직업 판 아랫줄 셋 — 든 무기 · 입은 갑옷)은 지금 장비로 꺼져 있으면 **아이콘을 흐리게만 한다**(`.sk-cell.off` · 빗금 없음). 찍기 · 되돌리기는 그대로 된다 — 랭크는 캐릭터에 쌓이고 장비를 바꾸면 켜진다. 툴팁은 그 직업이 실제로 들 수 있는 무기군 또는 필요한 갑옷군을 CSV 이름으로 밝힌다 — 꺼졌다는 문구는 붙이지 않는다([ADR-0385](adr/0385-장비가-켜는-마스터리-칸은-꺼지면-흐리게만-하고-빗금과-꺼짐-문구를-쓰지-않는다.md)). 도감의 1랭크 미리보기에도 같은 장비 조건을 표시한다 (skill_design §3-5 · `masteryState.gate` · `on`)
 - 칸 폭은 판 폭이 정한다(고정 px 없음). 긴 이름은 두 줄에서 잘리고 툴팁이 전문을 든다
 - **판 좌우 여백은 칸 사이 간격과 같다** — 칸 셋이 줄을 꽉 채우고 판 안쪽 좌우 여백이 칸 사이와 같은 폭이다. 칸 크기는 두고 판이 줄어든 만큼 **창 전체 폭이 줄었다** · 왼쪽 칸(포인트 · 액티브)도 판 약 1.7개 폭으로 좁다 (수치는 `style.css:.cols.c-skill`). 도감 마스터리 판은 이 규칙 밖이다
-- **판 머리는 제목 한 줄뿐이다** — 창 안의 판 셋에는 순번 라벨(탭1 · 탭2 · 탭3)도, 제목 옆 부제(죄종 공유 · 직업 줄 · 전직 해금 레벨)도 달지 않는다. 전직 판이 잠겼다는 것은 판이 흐린 것(`.sk-box.locked`)이 말한다. 도감 마스터리 세그먼트의 판은 어느 층인지 알리는 라벨(죄종 · 직업 · 전직)과 부제를 그대로 단다(§9-1)
+- **판 머리는 제목 한 줄뿐이다** — 창 안의 판 셋에는 순번 라벨(탭1 · 탭2 · 탭3)도, 제목 옆 부제(죄종 공유 · 직업 줄 · 전직 해금 레벨)도 달지 않는다. 전직 판이 잠겼다는 것은 **격자 위 잠김 베일**(§13-1 — 자물쇠 + 「전직 필요」 · `sk.advNeed`)이 말한다(사용자 지시 2026-09-27) — 제목은 베일 밖에 그대로 선다. 도감 마스터리 세그먼트의 판은 어느 층인지 알리는 라벨(죄종 · 직업 · 전직)과 부제를 그대로 단다(§9-1)
 - **판 제목은 왼쪽 패널 제목(「포인트」)과 같은 모양이다** — 굵기 · 크기 · 선까지의 간격이 같다. 제목과 죄종 아이콘은 머리 아래 선 위에 선다. 머리 높이는 판 셋이 같다(첫 줄이 나란해야 한다) — 한 줄 머리보다 넉넉하게 두어 **판 위쪽에 공간**이 있다
 - **맨 아래 추가 칸은 격자의 넷째 줄이다** — 다른 줄과 같은 간격(칸 사이와 같다)으로 3×3 아래 가운데에 선다. 판 셋과 왼쪽 칸의 아랫변은 나란하다 — 판이 더 높으면 액티브 패널이 남는 높이를 받는다
 - **왼쪽 칸은 제목 줄에 부가 정보를 올려 높이를 아낀다** — 포인트 패널은 제목 줄 오른쪽에 [초기화], 본문은 「남은 / 전체 · 남은 포인트」 한 줄 · 액티브 패널은 제목 줄 오른쪽에 공격 주기
@@ -1358,6 +1358,7 @@ URL 이 아니라 **버튼**이다. 언어 버튼 옆 `⚙` 를 누르면 판이
 - [ADR-0388](adr/0388-건설-상세는-한-열이고-랭크-목록은-다음-랭크-아래에-선다.md) 건설 상세는 한 열이고 랭크 목록은 「다음 랭크」 아래에 선다 — 2026-09-27 **(0326 의 반 나눔을 대체)**
 - [ADR-0391](adr/0391-다음-랭크의-재료-칸과-건설은-여는-것-조건-글-오른쪽에-선다.md) 「다음 랭크」 의 재료 칸과 [건설]은 여는 것 · 조건 글 오른쪽에 선다 — 2026-09-27
 - [ADR-0392](adr/0392-건설-랭크-칸-높이는-글-두-줄이고-랭크-목록이-스크롤-없이-다-보인다.md) 건설 랭크 칸 높이는 글 두 줄이고 랭크 목록이 스크롤 없이 다 보인다 — 2026-09-27 **(0388 의 세 줄을 대체)**
+- [ADR-0393](adr/0393-건설-랭크-칸은-목록의-남는-세로를-나눠-가져-아래까지-찬다.md) 건설 랭크 칸은 목록의 남는 세로를 나눠 가져 아래까지 찬다 — 2026-09-27
 - [ADR-0328](adr/0328-건설-랭크-목록의-조건은-주황-글씨다.md) 건설 랭크 목록의 조건은 주황 글씨다 — 2026-09-24 **(0321 의 「목록 조건은 흐린 글씨 · 경고색은 한 칸에만」을 대체)** *(목록의 조건은 ADR-0347 이 툴팁으로 옮김)*
 - [ADR-0329](adr/0329-건설-상세의-더하기는-대상-n-증가다.md) 건설 상세의 더하기는 「대상 +n 증가」 다 — 2026-09-24 **(0325 의 더하기 문장을 대체 · 기능을 여는 문장은 산다)** *(「증가」 꼬리는 ADR-0351 이 걷음)*
 - [ADR-0330](adr/0330-건설-랭크-목록의-지은-랭크는-흰-글씨다.md) 건설 랭크 목록의 지은 랭크는 흰 글씨다 — 2026-09-24 **(0324 의 「지음 = 「n랭크」 주황」 을 대체)**
@@ -1393,13 +1394,13 @@ URL 이 아니라 **버튼**이다. 언어 버튼 옆 `⚙` 를 누르면 판이
 - **부지 순서 = 왼쪽 탭 바 순서**(사용자 지시 2026-09-23) — 건물은 제 탭(`building.csv:tab`)의 탭 바 자리로 줄 선다(원정 · 지휘 천막(편성) · 창고(캐릭터) · 선술집 · 상단(상점) · 제련소 · 훈련장 · 자원 · 탐험 · 도감). 탭이 없는 건물(`-`)은 맨 뒤 · 같은 탭끼리는 표 순서(`sort_order`). 탭 바가 바뀌면 부지도 따라간다. **창고는 캐릭터 탭에 붙는다** — 가방 · 창고 · 장비 세트가 캐릭터 탭에서 쓰는 것이라 캐릭터 탭을 키우는 건물로 읽힌다(사용자 지시 2026-09-24 · ADR-0350). 창고는 처음부터 지어져 있어 캐릭터 탭은 흐려지지 않는다
 - **고른 건물은 화면 상태다**(세이브 아님) — 안 골랐으면 **지금 지을 수 있는 첫 건물**(부지 순서로), 없으면 첫 부지. [건설]을 누르면 그 건물에 머문다(기본 고르기가 다음 건물로 넘어가지 않게)
 - **랭크 목록은 글 목록이다**(ADR-0324) — 배지 · 태그 · 표 같은 **버튼 모양 상자를 두지 않는다**. 상태는 글자색과 오른쪽 끝 글자가 말한다 — 지음 흰 글씨 + 「✓」(사용자 지시 2026-09-24 「업그레이드한 거 그냥 흰색으로」 · ADR-0330) · 다음 흰 굵은 글(묶음에 옅은 붉은 바탕) · 그 뒤 · 준비 중 흐림. 부지끼리 선은 없다 — 다른 건물을 요구하는 랭크(표의 `building:` 조건)는 조건 문장(「다음 랭크」 · 목록 툴팁)이 말한다
-- **랭크 칸 하나의 높이 = 글 두 줄**(사용자 지시 2026-09-27 · ADR-0392) — **1600×800 에서 어느 건물이든 모든 랭크가 스크롤 없이 보이는 것**이 목표다. 한 줄인 랭크도 두 줄 높이에 서서 줄이 고르다. 글이 두 줄을 넘으면 칸이 제 높이만큼 는다 — 자르지 않는다 · 그래도 넘치면 목록이 스크롤한다
+- **랭크 칸 하나의 높이 = 글 두 줄**(사용자 지시 2026-09-27 · ADR-0392) — **1600×800 에서 어느 건물이든 모든 랭크가 스크롤 없이 보이는 것**이 목표다. 한 줄인 랭크도 두 줄 높이에 서서 줄이 고르다. 글이 두 줄을 넘으면 칸이 제 높이만큼 는다 — 자르지 않는다 · 그래도 넘치면 목록이 스크롤한다 · **목록의 남는 세로는 칸들이 똑같이 나눠 가져 목록이 아래 끝까지 찬다**(두 줄은 최소다 · 칸이 적은 건물은 칸이 그만큼 높다 — 사용자 지시 2026-09-27 · ADR-0393)
 - **랭크 번호는 「랭크 + 로마 숫자」다**(사용자 지시 2026-09-24 「1랭크 2랭크 이렇게 나오는 거 거슬려 · 랭크 1, 2, 3 으로 · 로마자로」) — 「랭크 I」 · 「랭크 II」 … (en 「Rank I」). 부대 · 편성 번호와 같은 표기(`mock.js:roman`)다. **상세 머리의 상태 한 줄 · 「다음 랭크」 · 랭크 목록의 번호 글자**가 이 표기다(머리는 사용자 지시 2026-09-24 「제목 아래 써 있는 글씨도 바꿔야지」) — 조건 문장 · 잠긴 자리의 한 줄 · 플래시는 「n랭크」 그대로다
 - **랭크 묶음은 세 세로줄이다** — 왼쪽 = 「랭크 I」 · 가운데 = 여는 것 설명(한 줄에 한 문장 · 묶음 높이의 가운데에 선다 — 조건 아랫줄은 없다 · ADR-0347) · 오른쪽 끝 = 「✓」 · 「준비 중」 글자 중 하나 — **[건설]과 비용은 「다음 랭크」 가 든다**(목록에 또 두면 같은 버튼이 두 곳에 선다). 로마 숫자는 폭이 제각각이라 **숫자 자리를 가장 넓은 숫자만큼 잡아** 여는 것 글이 줄끼리 맞는다
 - **상세의 소제목 아래 글은 전부 가장 작은 본문 단(`--fs-xs`)이다**(사용자 지시 2026-09-24 「부제목보다 크거나 비슷하면 어떻게 해 더 작아야 해」) — 「다음 랭크」 · 「{건물} 랭크」 아래와 기능 목록의 「랭크 I」 · 여는 것 문장 · 조건 · 재료 칸 글이 모두 소제목(한 단 큰 굵은 글)보다 눈에 띄게 작다. 그 안의 강조는 크기가 아니라 **색 · 굵기**가 든다(「랭크 I」 굵게 · 다음 랭크 붉은 글 · 조건 주황)
 - **건물 그림은 일러스트다**(2026-09-23 사용자 지시 · 배경과 같은 그림체) — `assets/art/buildings/<building_id>.webp` · 그림이 있는 건물은 `mock.js:BUILDING_IMAGES` 가 든다. 부지는 `cover` 로 채우고(4:3 그림의 위아래가 조금 잘린다) 이름 · 막대는 아래 어두운 띠 위에 선다. **안 지은 부지는 그림 위에 베일을 한 겹 더** 얹어 어둡다 · 목록에 없는 건물은 단색 실루엣(`mock.js:BUILDING_ART`)으로 폴백한다
 - **잠긴 자리의 한 줄** — 건물이 여는 기능이 아직 안 열렸으면 그 기능이 서는 자리에 **「선술집 2랭크 필요」**가 선다(`game.needOf` · `cn.need`) · 표에 그 기능을 여는 줄이 없으면 「준비 중」. 버튼이면 흐리고(`.dim` — 눌린다) 누르면 같은 문장을 플래시로 말한다. 자리는 §4(잠긴 장의 스테이지 행 — 「원정 n랭크 필요」 · 2026-09-24) · §8-1([고용] · [리롤] · 수색) · §8-2(제작 레벨 · [만들기] · [강화] · 물약 단계) · §8-3([사기] · 특수상단) · §15(전술 칸) · §16(건물 줄)
-- **칸이 통째로 잠긴 자리는 잠김 베일이다**(사용자 지시 2026-09-27) — **안 열린 것을 덮는 표시는 이 한 방식뿐이다**(사용자 지시 2026-09-27 「앞으로 뭔가를 덮게 되면 이 방식으로」) — 새로 잠긴 칸 · 패널을 덮을 때 흐림 · 다른 막 · 이모지 자물쇠를 새로 만들지 않고 `lockVeil` 을 쓴다. 패널 본문처럼 한 덩어리가 통째로 안 열렸으면 그 내용물 위에 **검은 반투명 베일**을 씌우고 가운데에 **자물쇠 아이콘(`lockIcon` — 전술 칸과 같은 그림) + 잠긴 자리의 한 줄**(본문보다 조금 큰 글 · 파티 전술 잠긴 행과 같은 경고색 — 자물쇠도 같은 색)을 한 줄로 세운다(`app.js:lockVeil`). 내용물은 베일 뒤에 비쳐 무엇이 열릴지 보인다 · 베일은 누름을 막는다. 자리는 §14(의뢰 게시판) · §8-1(도박장 칸)
+- **칸이 통째로 잠긴 자리는 잠김 베일이다**(사용자 지시 2026-09-27) — **안 열린 것을 덮는 표시는 이 한 방식뿐이다**(사용자 지시 2026-09-27 「앞으로 뭔가를 덮게 되면 이 방식으로」) — 새로 잠긴 칸 · 패널을 덮을 때 흐림 · 다른 막 · 이모지 자물쇠를 새로 만들지 않고 `lockVeil` 을 쓴다. 패널 본문처럼 한 덩어리가 통째로 안 열렸으면 그 내용물 위에 **검은 반투명 베일**을 씌우고 가운데에 **자물쇠 아이콘(`lockIcon` — 전술 칸과 같은 그림) + 잠긴 자리의 한 줄**(본문보다 조금 큰 글 · 파티 전술 잠긴 행과 같은 경고색 — 자물쇠도 같은 색)을 한 줄로 세운다(`app.js:lockVeil`). 내용물은 베일 뒤에 비쳐 무엇이 열릴지 보인다 · 베일은 누름을 막는다. 자리는 §14(의뢰 게시판) · §8-1(도박장 칸) · §7(스킬 창 전직 판 — 한 줄은 「전직 필요」)
 - **건설 화면은 이 탭에만 선다**(§1 · ADR-0308) — 흐린 탭은 눌러도 안 들어가고 이 탭에서 지을 건물을 플래시로 말한다(ADR-0311). 짓는 곳은 여기 하나다
 
 ---
@@ -1459,7 +1460,7 @@ URL 이 아니라 **버튼**이다. 언어 버튼 옆 `⚙` 를 누르면 판이
 | **파티 전술 — 진척** (오른쪽 열 머리) | **합산 레벨**(로스터 전원의 레벨 합) · 열린 칸 n / 전체(**모든 편성이 같다** — 계정) · 다음 칸을 여는 **지휘 천막 랭크**(「지휘 천막 3랭크 필요」 · R137) · **잠근 칸 n**(열린 칸 중 · 고른 편성의 것) | — |
 | **리롤 줄** | 버튼 하나 — **전체 리롤 + 비용.** 비용은 잠근 칸 수가 정하고(`[balance.csv:tactic_reroll_base_cost]` × `[balance.csv:tactic_reroll_lock_mult]` ^ 잠근 칸 수) **버튼에 적는다**. 줄의 **오른쪽 끝** — 아래 행들의 잠금 세로줄 위에 선다. 굴릴 칸이 없으면(전부 잠금) 꺼진다 · **골드가 모자라면 켜진 채**라 누르면 사유 플래시(`gold`)를 듣는다 · 굴리면 플래시가 **굴린 칸 수**를 말한다 | **전체 리롤** (골드) |
 | 칸 (열림) — 한 행 | **고른 편성의 칸**(ADR-0250) — **켜짐/꺼짐**(행 **맨 왼쪽** — 2026-09-27 사용자 지시 「On Off 를 맨 왼쪽에」) · **등급 칩**(일반 · 매직 · 레어 — 켜짐/꺼짐 바로 오른쪽) · ~~난이도 n~~(2026-09-27 삭제 — 등급 칩이 왼쪽에 있다) · **조건 문장 + 카운터 「지금 / 필요」 — 고른 편성의 파티로 센다** · **효과**(축 이름 + 값) · **잠금 토글** — 행의 넷째 칸 · **자물쇠 아이콘**이다 [2026-09-27 사용자 지시] — 잠긴 칸은 **닫힌 자물쇠**(강조색) · 안 잠긴 칸은 **열린 자물쇠**(흐림) · ~~버튼 글은 누르면 일어날 일~~ → 누르면 일어날 일(잠그기 / 풀기)은 hover 제목이 말한다 · 잠근 행은 버튼이 강조되고 **왼쪽에 경고색 선**이 선다(안 열린 칸의 점선과 다른 표시다) | **잠그기 / 풀기** (무료) |
-| 칸 (잠김) — 한 행 | **그 칸을 여는 지휘 천막 랭크** 한 줄(「지휘 천막 3랭크 필요」 · `game.needOf`) — 내용은 안 보인다. 칸은 건설이 연다 — 로스터 합산 레벨은 그 랭크의 문턱이다(§13 · R137) | — |
+| 칸 (잠김) — 한 행 | **닫힌 자물쇠(`lockIcon` — 잠김 베일과 같은 그림 · 경고색) + 그 칸을 여는 지휘 천막 랭크** 한 줄(「지휘 천막 3랭크 필요」 · `game.needOf`) — 내용은 안 보인다. 칸은 건설이 연다 — 로스터 합산 레벨은 그 랭크의 문턱이다(§13 · R137) | — |
 
 **규칙**
 
@@ -1470,7 +1471,7 @@ URL 이 아니라 **버튼**이다. 언어 버튼 옆 `⚙` 를 누르면 판이
 - **모자람 · 카운터 · 켜짐은 렌더러가 세지 않는다** — 셋 다 `game_logic` 이 낸다(`game.presetState` · `game.tacticState`)
 - **잠긴 칸도 그린다** — 칸 수는 CSV 행 수이고 프레임은 항상 `[tactic_slot.csv]` 행만큼 그려진다. 어디까지 열리는지가 안 보이면 "없는 것"으로 읽힌다 (§4-1 · §7 과 같은 이유)
 - **조건은 카운터를 달고 나온다** — 「분노 장비 3개 이상」 옆에 지금 값 `2 / 3`. 「없으면」 조건은 필요가 0 이라 `1 / 0` 처럼 선다(0 이 돼야 켜진다) · 관계는 「이 파티로 100회 이상 출정」 옆에 `12 / 100` · 리더 통솔은 「리더의 통솔 12 이상」 옆에 `9 / 12`(첫 칸 영웅의 통솔 · 2026-09-27) · 무조건은 카운터가 없다. 조건이 참인지 **화면에서 세어 볼 수 있어야** 하고, 안 보이면 함정이다 ([tactic_card_design §4](../game_design/tactic_card_design.md) 「화면 요구」)
-- **켜짐/꺼짐이 칸의 첫인상이다** — 꺼진 칸은 흐리게, 켜진 칸은 죄종 색이 아니라 **강조 테두리**로. 효과 수치는 켜짐과 무관하게 **항상 찍는다** (§4-1 "값은 항상 찍는다")
+- **켜짐/꺼짐이 칸의 첫인상이다** — 글자는 **한국어에서도 「On」 · 「Off」**(`rs.on` · `rs.off` — 사용자 지시 2026-09-27) · On 은 성공색 · **Off 는 빨강**(`--color-error`). 꺼진 칸은 흐리게, 켜진 칸은 죄종 색이 아니라 **강조 테두리**로. 효과 수치는 켜짐과 무관하게 **항상 찍는다** (§4-1 "값은 항상 찍는다")
 - ~~**난이도는 등급 칩 옆에 잔글씨로 선다**~~ → **2026-09-27 삭제** [사용자 지시 「난이도 n 모두 빼 · 왼쪽에 계급이 있잖아」] — 조건의 점수는 등급 값의 천장으로만 드러난다(tactic_card_design §5-8)
 - **등급 칩은 행 맨 왼쪽에 선다** [ADR-0261] — 등급이 가르는 것은 **값 하나뿐**이고 조건도 축도 그대로다 ([tactic_card_design §5-5](../game_design/tactic_card_design.md)). 그래서 조건 칸이나 효과 칸이 아니라 **행의 머리**에 붙는다 — 「이 칸이 무엇이냐」가 아니라 「얼마나 잘 굴렸냐」이기 때문이다. 안 보이면 리롤의 목표 절반(조건 적합 + **등급**)이 화면에서 사라진다 ([tactic_card_design §4](../game_design/tactic_card_design.md) 「안 보이면 함정」)
   - 색은 아이템 희귀도의 **파랑(매직) · 노랑(레어)** 을 빌리고 일반은 무채색이다. ⚠ **축은 다르다** — 전술 등급은 아이템 희귀도와 별개 SSOT 이고 이름만 같다(§5-5). 이름을 이미 빌린 마당에 색까지 갈라 놓으면 같은 단어가 화면에서 두 색으로 나온다

diff --git a/docs/client/SCREEN_CHANGELOG.md b/docs/client/SCREEN_CHANGELOG.md
@@ -14,6 +14,11 @@
 
 ## 이력
 
+- **2026-09-27** — **§6 세부 옵션 1 — 피해 감소 (고정) 줄을 걷고 피해 감소 줄이 `고정 / %` 로 둘을 함께 든다 · 16줄** [사용자 지시] — `tip.js:sheetRowsHtml` · `FX_ROWS` 에서 `fx_dr_flat` 걷음
+- **2026-09-27** — **§6 세부 옵션 1 — 흡혈 · HP 재생을 저항 위로 · 저항 넷이 칸 맨 아래** [사용자 지시] — `tip.js:DETAIL_LAYOUT` · `combat_stat.csv:sheet_order` 11~16 재번호
+- **2026-09-27** — **§7 스킬 창 전직 판 = 잠김 베일 「전직 필요」** [사용자 지시 「전직 트리에도 똑같이」] — 판 흐림 대신 격자 위 베일 · `sk.advNeed` 신설 · 도감의 미기획 판은 흐림 그대로
+- **2026-09-27** — **§15 파티 전술 켜짐/꺼짐 → 한국어도 On / Off · Off 는 빨강** [사용자 지시] — `rs.on` · `rs.off` ko = On · Off · `.rs-cell.off .rs-state` = `--color-error`
+- **2026-09-27** — **§15 파티 전술 칸 글씨 +1px · 잠긴 행 왼쪽에 자물쇠** [사용자 지시] — 조건 · 효과 · 잠긴 줄 `--fs-xs` + 1px · 잠긴 행 = `lockIcon`(닫힘) + 「지휘 천막 n랭크 필요」
 - **2026-09-27** — **§13-1 잠김 베일 글씨색 = 경고색** [사용자 지시 「파티 전술 쪽 글씨색으로」] — `.rs-lock` 과 같은 `--color-warning` · 자물쇠도 따른다
 - **2026-09-27** — **§13-1 잠김 베일을 표준으로** [사용자 지시 「앞으로 뭔가를 덮게 되면 이 방식으로」] — 안 열린 것을 덮는 표시는 `lockVeil` 하나뿐 · 새 막 · 흐림 · 이모지 자물쇠를 만들지 않는다
 - **2026-09-27** — **§8-1 도박장 칸도 잠김 베일** [사용자 지시 「도박장도 똑같이」] — 안 열려도 칸은 열린 모양(「한 판 n G부터」 · [입장]) 그대로 서고 베일이 덮는다 · 흐린 버튼 · 필요 랭크 줄 걷음 · 베일 88%
@@ -59,6 +64,7 @@
 - **2026-09-27** — **§8-3 상점 탭 = 캐릭터 탭 3단** [사용자 지시 「영웅장비 왼쪽 · 아래에 아이템창 · 상단과 특수상단은 오른쪽으로」] — 띠 / 영웅 장비 · 상점 열 / 아이템창 · 두 패널은 캐릭터 탭 것 그대로 · [ADR-0365](adr/0365-상점-탭은-캐릭터-탭처럼-왼쪽에-영웅-장비-아래에-아이템창이-서고-상단은-오른쪽으로-간다.md)(0246 일부 대체)
 - **2026-09-27** — **§8-2 강화 = 왼쪽 고른 영웅의 장비칸 · 오른쪽 작업 패널 · 아래 캐릭터 탭 아이템창** [사용자 지시] — 부위 필터 목록 삭제 · 칸 클릭 = 강화 대상 고르기(벗기기 · 장착 안 함) · 도구 줄은 캐릭터 탭 그대로 · [ADR-0364](adr/0364-강화는-고른-영웅의-장비칸과-아이템창에서-대상을-고른다.md)
 - **2026-09-27** — **§8-2 제련소 탭 맨 위에 영웅 띠** [사용자 지시 「상점처럼」] — 상점과 같은 띠 · 같은 「고른 영웅」 · 툴팁 켬 · 해고 · 순서 없음 · 띠의 자리가 넷(§5) · §1 지도 · §2 박스 표의 낡은 「작업 탭은 상단바」도 바로잡음 · [ADR-0363](adr/0363-제련소-탭-맨-위에-영웅-띠가-선다.md)
+- **2026-09-27** — **§13-1 랭크 칸이 목록의 남는 세로를 나눠 가진다(아래까지 찬다)** [사용자 지시 · ADR-0393]
 - **2026-09-27** — **§13-1 랭크 칸 높이 = 글 두 줄 · 모든 랭크가 한 화면에** [사용자 지시 · ADR-0392] — 옛 세 줄
 - **2026-09-27** — **§13-1 「다음 랭크」 재료 칸 + [건설]을 글 오른쪽으로** [사용자 지시 · ADR-0391] — 옛 조건 아래 줄
 - **2026-09-27** — **§13-1 건설 상세 한 열 — 「다음 랭크」 아래 랭크 목록 · [건설] 오른쪽 끝 · 랭크 칸 높이 = 글 세 줄** [사용자 지시 · ADR-0388] — 옛 반 나눔 · 1/7 높이

diff --git a/docs/client/adr/0393-건설-랭크-칸은-목록의-남는-세로를-나눠-가져-아래까지-찬다.md b/docs/client/adr/0393-건설-랭크-칸은-목록의-남는-세로를-나눠-가져-아래까지-찬다.md
@@ -1,0 +1,29 @@
+# ADR-0393 — 건설 랭크 칸은 목록의 남는 세로를 나눠 가져 아래까지 찬다
+
+| | |
+|---|---|
+| **상태** | 확정 · 2026-09-27 |
+| **화면** | [SCREEN_DESIGN §13-1](../SCREEN_DESIGN.md) |
+| **정한 사람** | 사용자 지시 |
+| **대체** | — *(ADR-0392 의 두 줄 최소는 그대로 · 그 위에 더한다)* |
+| **대체됨** | — |
+
+## 결정
+
+건설 상세 랭크 목록의 칸은 **최소 글 두 줄**(ADR-0392) 위에 **목록의 남는 세로를 똑같이 나눠 가진다** — 목록이 상세 아래 끝까지 찬다. 글이 긴 칸은 제 높이에 같은 몫을 더 받는다. 칸 수가 적은 건물은 칸이 그만큼 높아진다.
+
+## 맥락
+
+두 줄 기준으로 모든 랭크가 한 화면에 들자 목록 아래에 빈 세로가 남았다(7랭크 건물 · 「다음 랭크」 가 짧은 판에서 더 크다). 사용자가 「약간만 더 크게 · 아래까지 꽉 차게 잘 나눠 써 봐」 → 「2.5 줄로 키울 필요까지는 없고 그냥 아래에 남는 칸을 모두 쓰라고」 라고 지시했다.
+
+## 근거
+
+- **최소는 두고 남는 것만 나눈다** — 고정 줄 수를 키우면(2.5 줄 안) 「다음 랭크」 가 긴 판에서 7랭크가 넘친다. 남는 세로를 나누면 어느 판에서도 넘치지 않으면서 아래가 빈다는 문제가 사라진다
+- 버린 안 — 칸 높이를 목록의 1/7 로 두고 최소 두 줄(칸이 적은 건물은 아래가 빈다 — 사용자가 「남는 칸을 모두」 라고 했다)
+
+## 파급
+
+- CSS `.cn-rank` 의 `flex-grow`
+
+---
+*이 파일은 고치지 않는다. 결정이 뒤집히면 새 ADR 이 이것을 대체하고, 여기엔 「대체됨」 한 줄만 붙는다.*

diff --git a/docs/client/adr/README.md b/docs/client/adr/README.md
@@ -67,12 +67,13 @@
 
 ## 인덱스
 
-**388건** — 살아 있는 결정 381 · 대체된 것 7. 번호는 **결정이 선 날 순**이다.
+**389건** — 살아 있는 결정 382 · 대체된 것 7. 번호는 **결정이 선 날 순**이다.
 
 > 이 표는 **ADR 파일들에서 생성한 파생 뷰**다 — 손으로 고치지 않는다. ADR 을 쓰거나 「대체됨」을 채운 뒤 `python docs/client/adr/_build_index.py` 를 돌린다.
 
 | 번호 | 제목 | 상태 | 화면 | 날짜 | 대체 관계 |
 |---|---|---|---|---|---|
+| 0393 | [건설 랭크 칸은 목록의 남는 세로를 나눠 가져 아래까지 찬다](0393-건설-랭크-칸은-목록의-남는-세로를-나눠-가져-아래까지-찬다.md) | 확정 | §13-1 | 2026-09-27 | — *(ADR-0392 의 두 줄 최소는 그대로 · 그 위에 더한다)* 를 대체 |
 | 0392 | [건설 랭크 칸 높이는 글 두 줄이고 랭크 목록이 스크롤 없이 다 보인다](0392-건설-랭크-칸-높이는-글-두-줄이고-랭크-목록이-스크롤-없이-다-보인다.md) | 확정 | §13-1 | 2026-09-27 | [ADR-0388](0388-건설-상세는-한-열이고-랭크-목록은-다음-랭크-아래에-선다.md) 의 「한 묶음 높이 = 글 세 줄」 를 대체 |
 | 0391 | [「다음 랭크」 의 재료 칸과 \[건설\]은 여는 것 · 조건 글 오른쪽에 선다](0391-다음-랭크의-재료-칸과-건설은-여는-것-조건-글-오른쪽에-선다.md) | 확정 | §13-1 | 2026-09-27 | — |
 | 0390 | [통째로 잠긴 칸은 내용물 위에 잠김 베일을 씌운다](0390-통째로-잠긴-칸은-내용물-위에-잠김-베일을-씌운다.md) | 확정 | §13-1 | 2026-09-27 | §14 의 「카드 대신 「선술집 n랭크 필요」 한 줄」 를 대체 |
